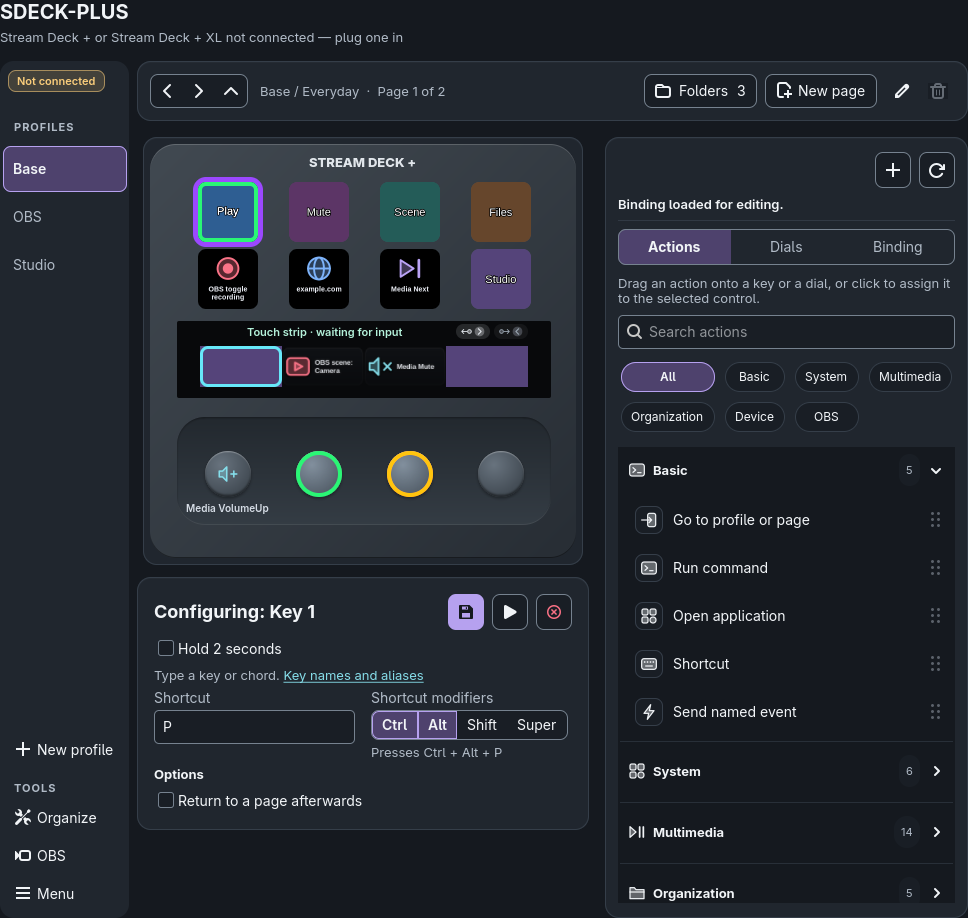
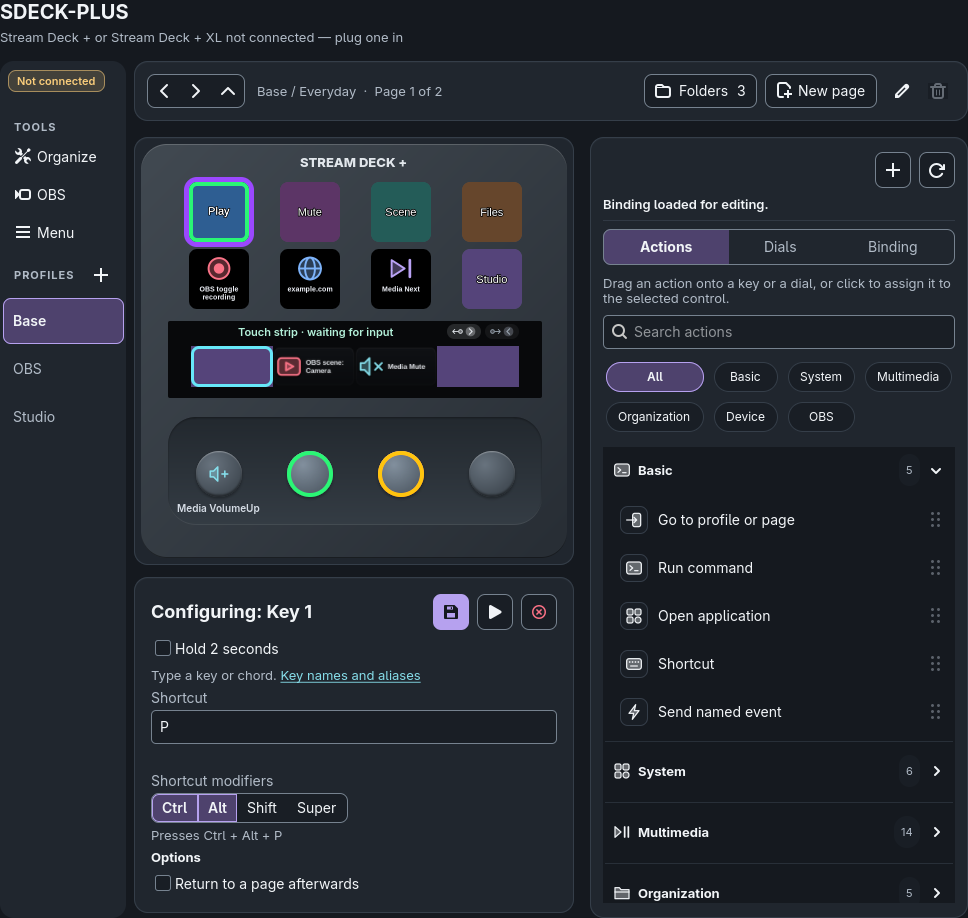
docs: regenerate screenshots for the tools-first rail and side-by-side catalog

diff --git a/docs/index.html b/docs/index.html
@@ -572,7 +572,7 @@
           </div>
           <div class="stage overlay">
             <a class="zoom inset" style="--w: 360px" href="screenshots/more-actions-categories.png" data-caption="More actions category menu">
-              <img width="486" height="256" src="screenshots/more-actions-categories.png" loading="lazy" decoding="async" alt="More actions category menu">
+              <img width="474" height="256" src="screenshots/more-actions-categories.png" loading="lazy" decoding="async" alt="More actions category menu">
               <span class="zoom-badge" aria-hidden="true"><svg><use href="#i-zoom"/></svg></span>
             </a>
             <a class="zoom" href="screenshots/more-actions-obs.png" data-caption="Key configured to switch OBS to the Studio camera scene">
@@ -645,8 +645,8 @@
                background and four touch zones (on the + XL, each of its 36 keys, the strip and its six touch zones). Right-click a key to edit its image and text together; touch targets retain their Appearance section. Images are copied into the app's data directory and replayed on reconnect.</p>
           </div>
           <div class="stage">
-            <a class="zoom small-shot" href="screenshots/artwork-touch-zones.png" data-caption="Artwork target selector with image and clear buttons">
-              <img width="491" height="590" src="screenshots/artwork-touch-zones.png" loading="lazy" decoding="async" alt="Artwork target selector with image and clear buttons">
+            <a class="zoom small-shot" href="screenshots/artwork-touch-zones.png" data-caption="Artwork target selector listing the touch strip background and the four touch zones">
+              <img width="485" height="590" src="screenshots/artwork-touch-zones.png" loading="lazy" decoding="async" alt="Artwork target selector listing the touch strip background and the four touch zones">
               <span class="zoom-badge" aria-hidden="true"><svg><use href="#i-zoom"/></svg></span>
             </a>
           </div>
@@ -711,7 +711,7 @@
           <div class="feature-text">
             <p class="feature-num">11 · Backup</p>
             <h3>Save and restore configuration</h3>
-            <p>The <strong>Menu</strong> tool at the foot of the left rail imports and exports <code>.sdeck-plus.json</code> files containing
+            <p>The <strong>Menu</strong> tool in the TOOLS group at the top of the left rail imports and exports <code>.sdeck-plus.json</code> files containing
                saved profiles, pages, bindings, button text, file references, information and OBS settings.</p>
             <p>Version 4 exports readable configuration without base64: <code>./sonidos/cancionX.mp3</code>, <code>./imagenes/name.png</code> and <code>./archivos/name</code> replace original file locations.
                No background-image, sound or other file contents, nor symlink destinations, travel with the export. Import preserves local files and lets you reconnect missing references on the destination machine.

diff --git a/odd/tasks/audio-input-controls.md b/odd/tasks/audio-input-controls.md
@@ -26,6 +26,7 @@ Branch: feat/audio-input-controls. Scope chosen by the user: step volume, mute, 
 - Delivery strategy: branch is 8274 authored lines past origin/main (42 commits); each T9 unit is its own work-unit commit; PR splitting is the user's decision at delivery.
 - T15 (S12) keep the actions catalog beside the preview at every width: replace the wrapping FlowBox with a two-column layout; catalog shrinks from its natural width to its 250px minimum; below that the content column scrolls horizontally instead of stacking. done; worker mwfg72gu-c-4qxi + continuation mwfifyn1-d-avnk; commit: see L50.
 - T16 (S13) rail: tools at the very top, then PROFILES with + New profile beside the heading, then profiles. done; worker mwfifyn1-d-avnk; commit: see L50. Docs screenshots still to regenerate (T17).
+- T17 (S12,S13) regenerate docs screenshots for the tools-first rail and side-by-side catalog; align docs. done; worker mwfiz03b-e-758p; commit: see L51.
 - T10 (S9,S10,S11) verify, reconcile docs, regenerate captures. done; worker mwfedv73-9-yt8r + parent glyph fix; commit: see L41.
 - T1 (S1,S2,S3) core actions: DesktopAction variants, wpctl/pw-dump, serde, validate, summary. inline. commit: c656412 (bin did not compile alone; fixed by T2 commit)
 - T2 (S1,S2,S3) editor choices, icons, catalog. inline. commit: pending
@@ -36,6 +37,7 @@ Branch: feat/audio-input-controls. Scope chosen by the user: step volume, mute, 
 - T5 (S6) docs: README, index, docs.html, CHANGELOG. inline. commit: see git log (screenshots regenerated at the end)
 
 ## Log
+L51: T17: generator exit 0, 40 PNGs (28 changed), every PNG viewed against its caption; one wrong caption fixed (artwork-touch-zones); 2 img widths fixed, 0 mismatches; Menu wording fixed in docs/index.html. fmt, clippy 0; plugin_sdk 24/24. Parent viewed docs/screenshots/main-window.png: tools first, PROFILES +, catalog beside preview; diff-check pass.
 L50: T15+T16 committed together (shared main.rs rail/sidebar code). Sidebar min now 250 (StackSwitcher min-width cleared, wrapping live-info caption): side by side without scroll from 872px (Plus) / 1002px (XL). Rail: badge, TOOLS (Organize, OBS, Menu with descriptive tooltips), PROFILES + New profile, profiles; nothing at the foot. Worker: RED via partial revert (sidebar) and clean RED (rail); full GTK 370 pass + 3 baseline + intermittent selector (passes alone); headless 0; plugin_sdk 24/24. Parent: fmt, diff-check, rail_tests 7/7; viewed 900px dark and 1120px light captures. Open: docs screenshots stale; light-theme connection badge low contrast (pre-existing).
 L49: user: "deberia ser arriba, del todo las herramientas y luego a continuacion los perfiles." -> S13 rewritten. New profile goes beside the PROFILES heading (directly before the list; the Notebook offers no slot after the tabs).
 L48: "tampoco en ningun momento aprobe que las tools al igual que la creacion del nuevo perfil esten en la seccion de abajo, no se sabe para que sirve, no es claro que funcionalidad expresa." -> S13, T16 opened (blocked on placement choice). Note: the L38 option text did say tools at the foot; New profile at the foot was an unapproved deviation.
